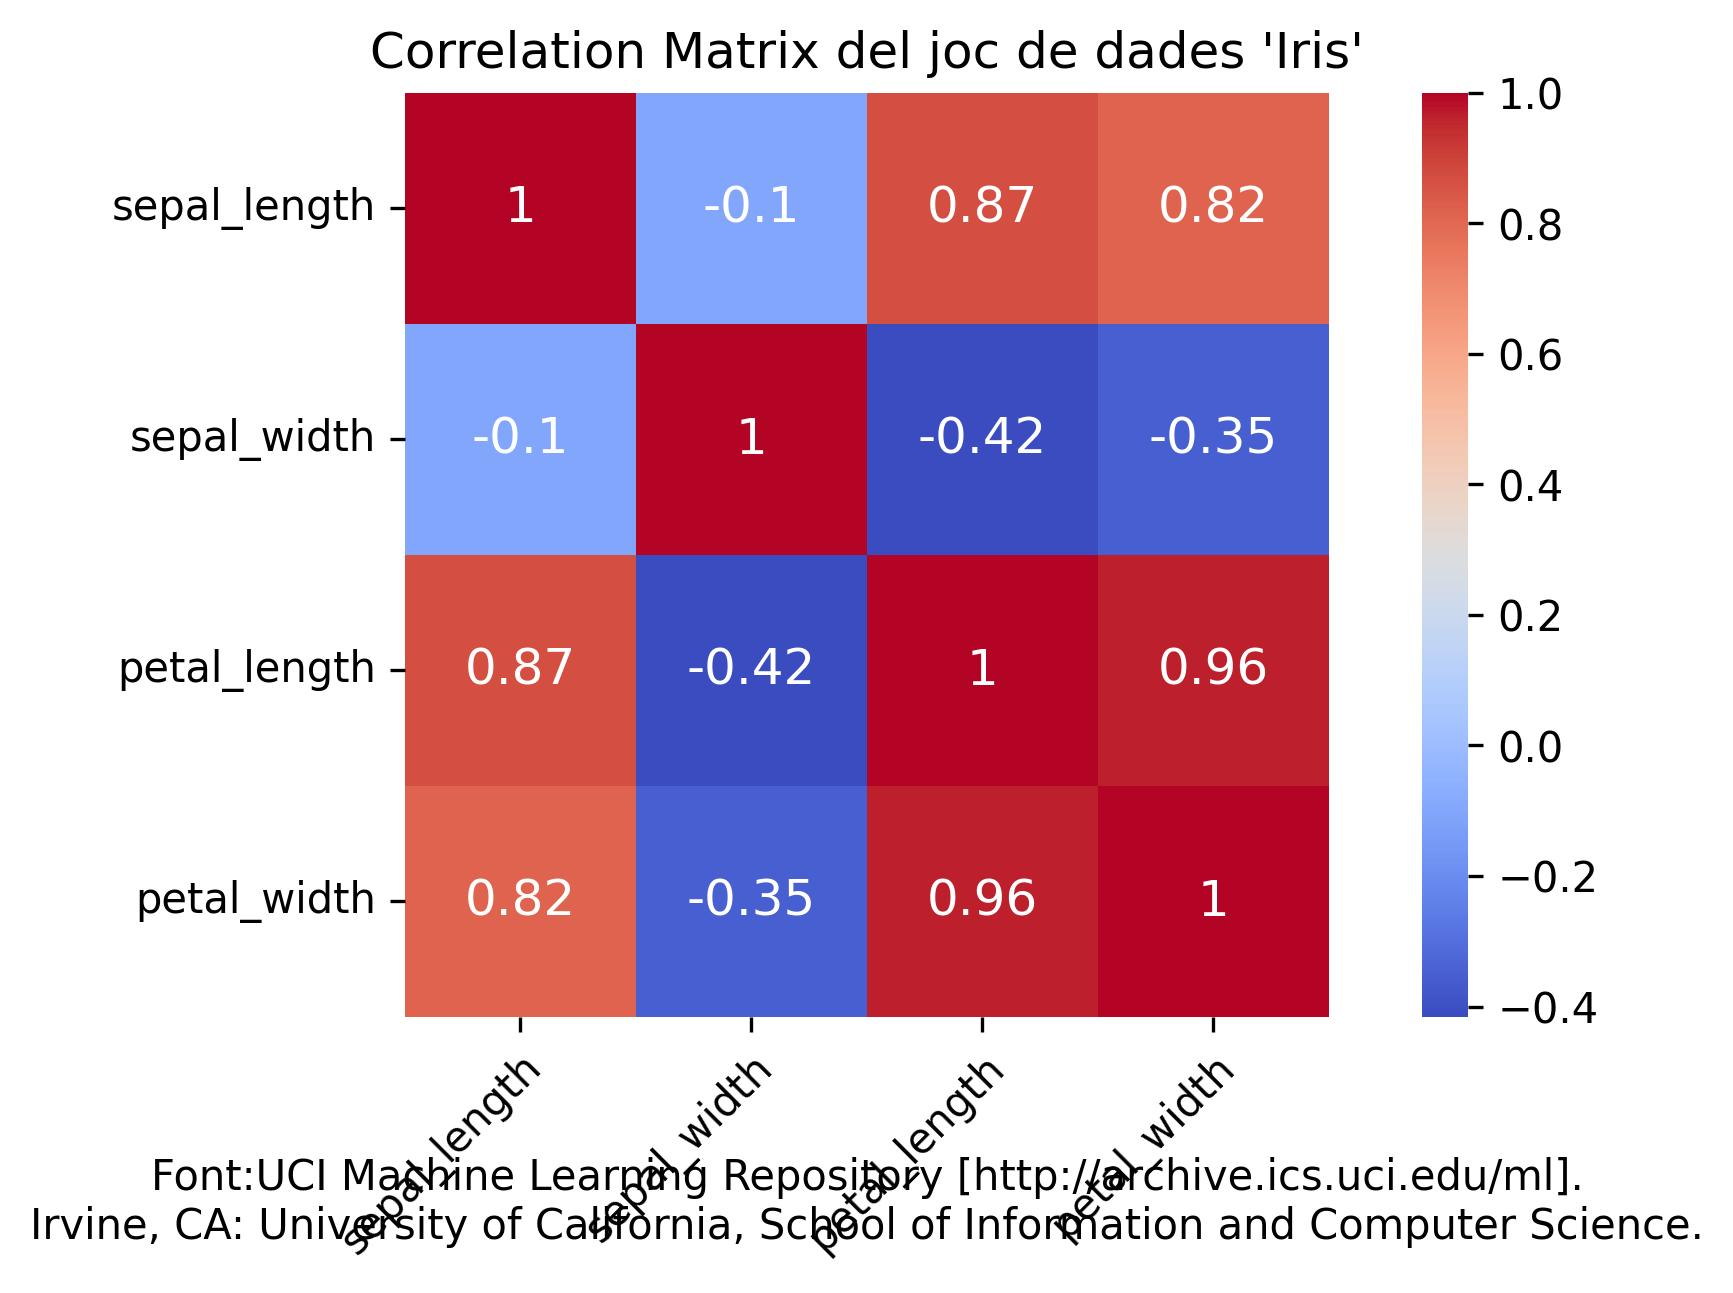
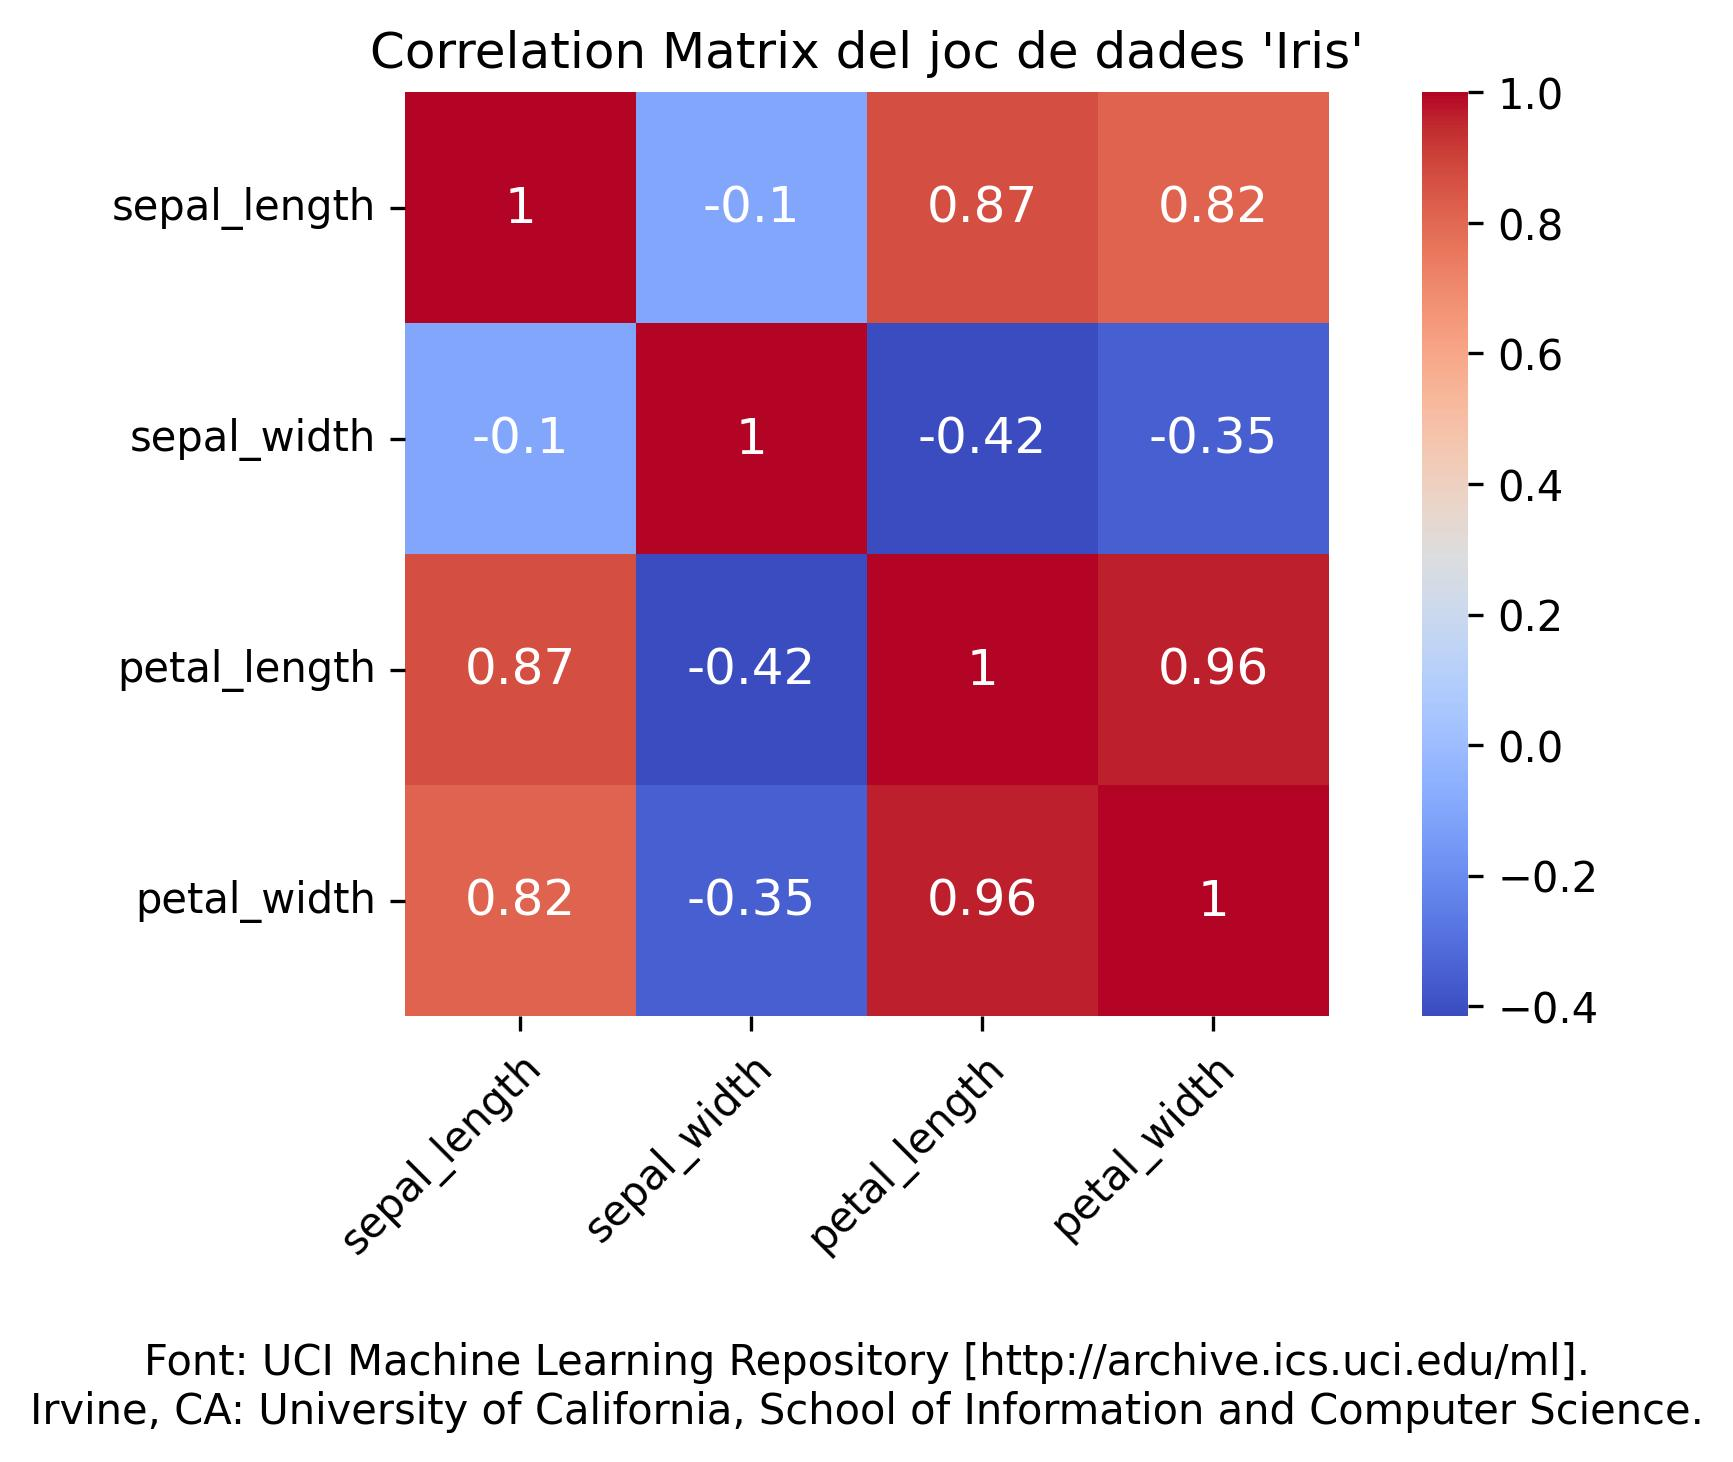
modified font text

diff --git a/visualizations/src/correlation-matrix.py b/visualizations/src/correlation-matrix.py
@@ -20,7 +20,7 @@ ax.set_title('Correlation Matrix del joc de dades \'Iris\'')
 plt.setp(ax.get_xticklabels(), rotation=45, ha="right", rotation_mode="anchor")
 plt.yticks(rotation=0)
 
-ax.text(0.5, -0.25, 'Font:UCI Machine Learning Repository [http://archive.ics.uci.edu/ml].\nIrvine, CA: University of California, School of Information and Computer Science.', ha='center', va='bottom', transform=plt.gca().transAxes)
+ax.text(0.5, -0.45, 'Font: UCI Machine Learning Repository [http://archive.ics.uci.edu/ml].\nIrvine, CA: University of California, School of Information and Computer Science.', ha='center', va='bottom', transform=plt.gca().transAxes)
 
 fig.set_size_inches(8, 4)
 plt.savefig('../images/correlation-matrix.jpg', dpi=300, bbox_inches='tight')
